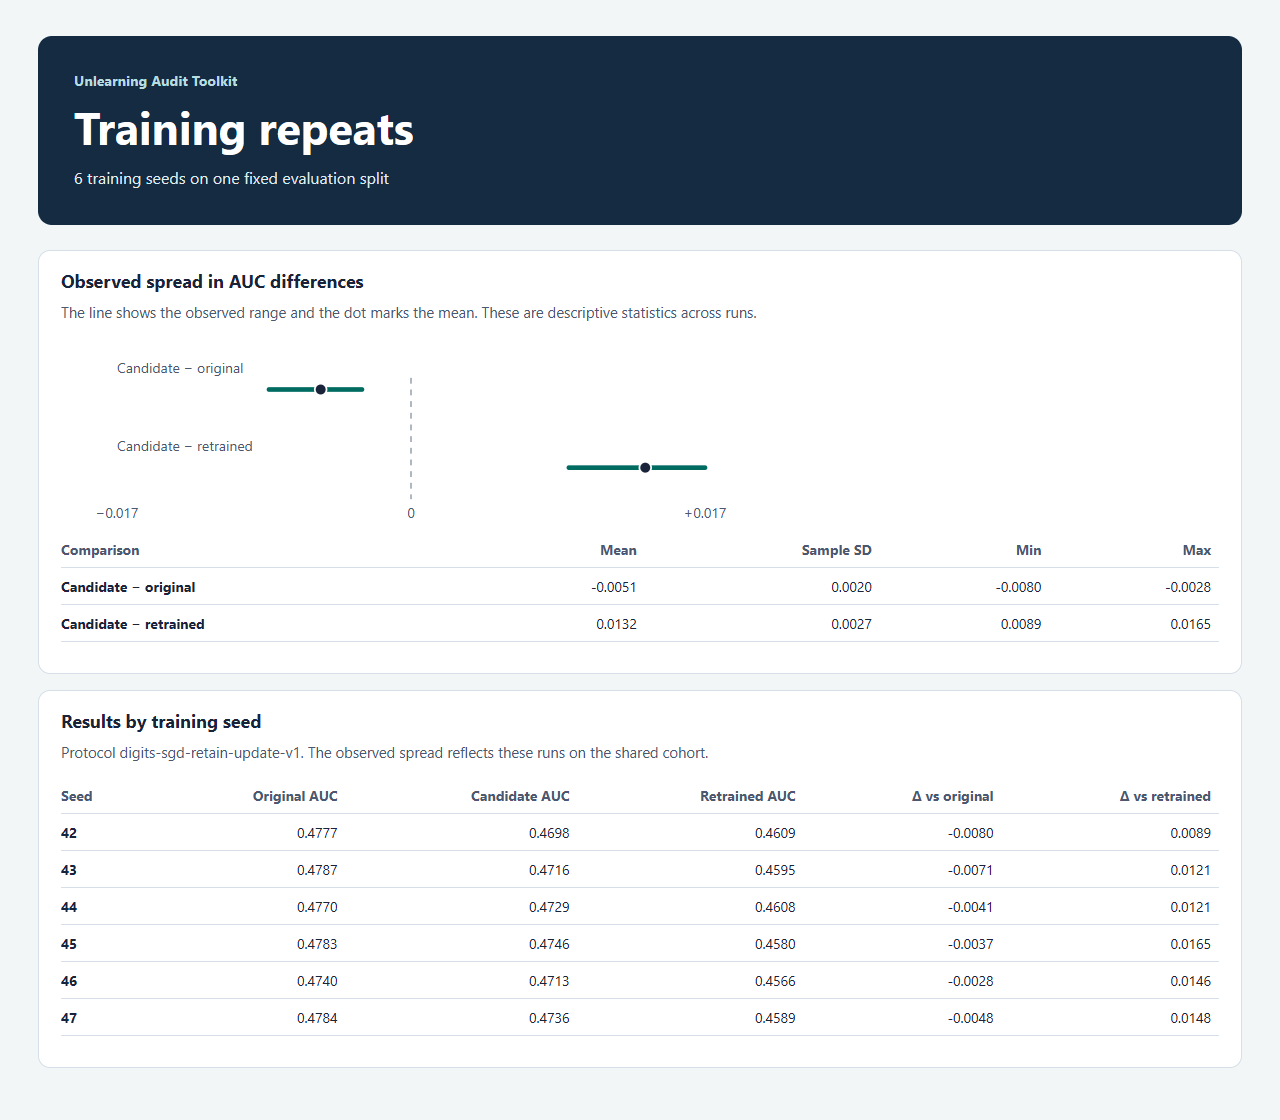
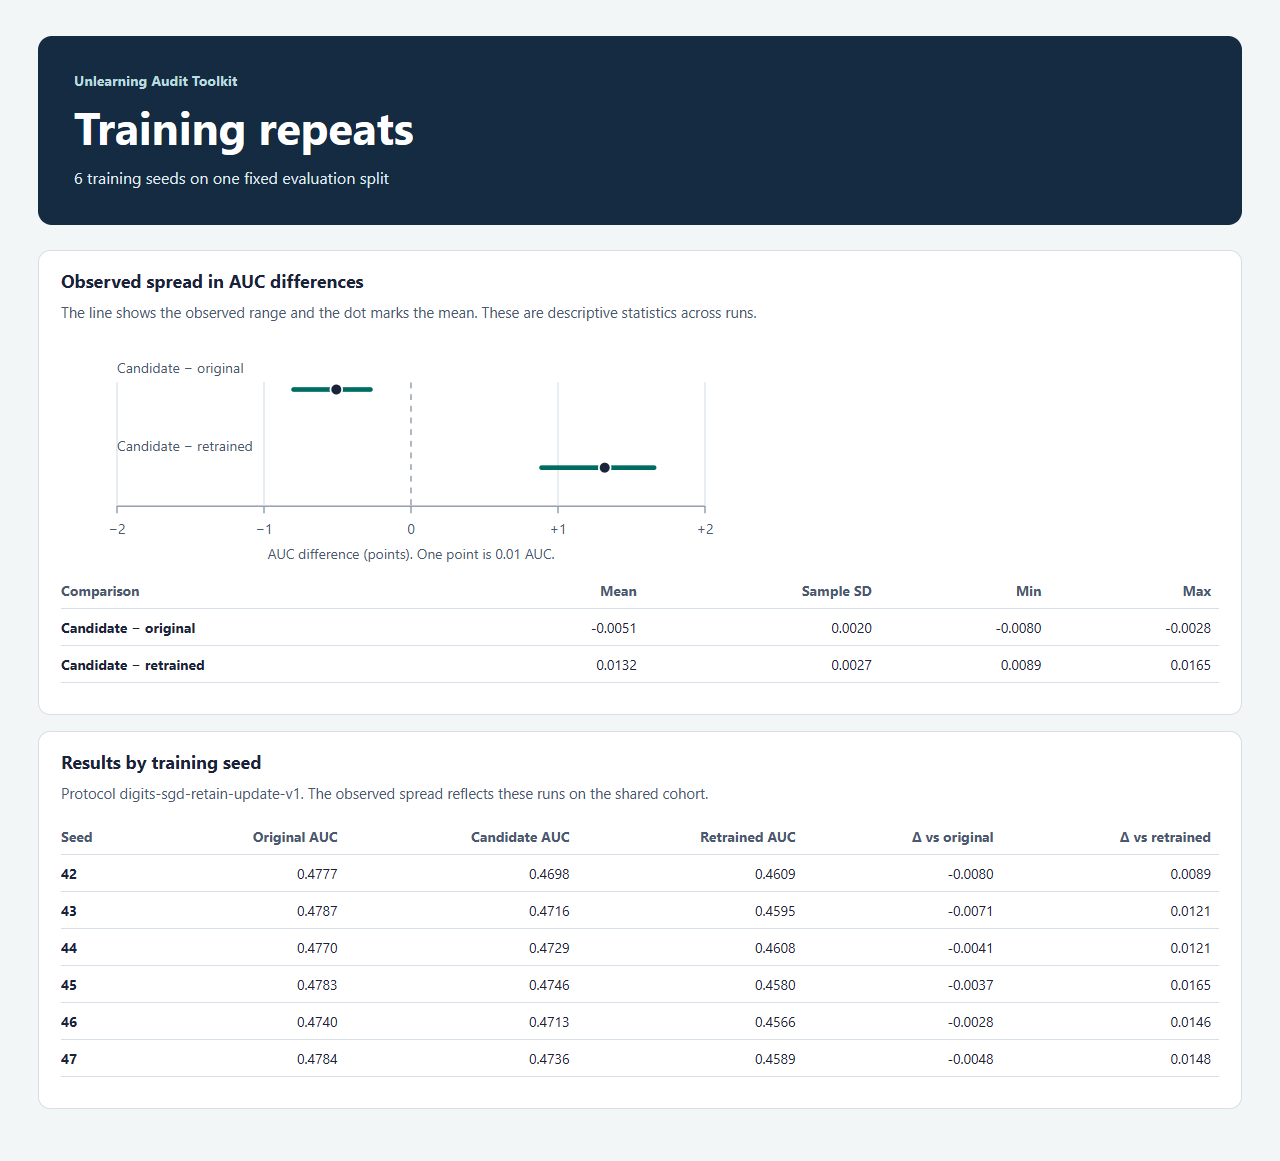
Label the study axis and document the extended seed run

diff --git a/unlearning_audit/report.css b/unlearning_audit/report.css
@@ -59,6 +59,8 @@ dl { display: grid; grid-template-columns: minmax(90px, 150px) minmax(0, 1fr); g
 dt { font-weight: 650; overflow-wrap: anywhere; }
 dd { margin: 0; line-height: 1.5; overflow-wrap: anywhere; }
 .study-chart { max-width: 700px; }
+.study-chart figcaption { color: var(--muted); font-size: .87rem; text-align: center; margin-bottom: 10px; }
+.study-axis { fill: none; stroke: #778497; }
 .study-range { stroke: var(--candidate); stroke-width: 4; stroke-linecap: round; }
 .study-mean { fill: var(--text); stroke: white; stroke-width: 1.5; }
 @media (max-width: 820px) { .grid-panels { grid-template-columns: 1fr; } }

diff --git a/unlearning_audit/study.py b/unlearning_audit/study.py
@@ -88,11 +88,26 @@ def study_csv(study: dict) -> str:
 def _range_chart(study: dict) -> str:
     summary = study["auc_delta_summary"]
     extent = max(0.01, max(abs(summary[key][bound]) for key in COMPARISONS for bound in ("min", "max")))
+    # Use round, symmetric ticks in AUC points, with room for both endpoints.
+    step = next(step for step in (0.5, 1, 2, 5, 10, 20, 50) if 2 * step >= extent * 100)
+    extent = 2 * step / 100
     left, right = 48, 552
     center = (left + right) / 2
+    axis_y = 145
 
     def x(value: float) -> float:
         return center + value / extent * (right - center)
+
+    ticks = []
+    for value in (-2 * step, -step, 0, step, 2 * step):
+        position = x(value / 100)
+        label = f"{value:+g}".replace("-", "−") if value else "0"
+        line_class = "chance" if value == 0 else "grid"
+        ticks.append(
+            f'<path class="{line_class}" d="M{position:.2f} 39V{axis_y}"/>'
+            f'<path class="study-axis" d="M{position:.2f} {axis_y}v6"/>'
+            f'<text x="{position:.2f}" y="169" text-anchor="middle">{label}</text>'
+        )
 
     rows = []
     for y, key in zip((45, 112), COMPARISONS):
@@ -103,15 +118,15 @@ def _range_chart(study: dict) -> str:
             f'<circle class="study-mean" cx="{x(group["mean"]):.2f}" cy="{y}" r="5"/>'
         )
     return (
-        '<svg viewBox="0 0 600 166" role="img" aria-labelledby="spread-title spread-desc">'
+        '<svg viewBox="0 0 600 177" role="img" aria-labelledby="spread-title spread-desc">'
         '<title id="spread-title">Observed ranges of paired AUC differences</title>'
         '<desc id="spread-desc">Horizontal lines span the minimum and maximum across runs. '
-        'Dots mark means. The summary table lists exact values.</desc>'
-        f'<path class="chance" d="M{center:g} 35V139"/>'
+        'Dots mark means. The horizontal axis is measured in AUC points. '
+        'The summary table gives the same values on the original AUC scale.</desc>'
+        f'<path class="study-axis" d="M{left} {axis_y}H{right}"/>'
+        + "".join(ticks)
         + "".join(rows)
-        + f'<text x="{left}" y="155" text-anchor="middle">−{extent:.3f}</text>'
-        + f'<text x="{center:g}" y="155" text-anchor="middle">0</text>'
-        + f'<text x="{right}" y="155" text-anchor="middle">+{extent:.3f}</text></svg>'
+        + '</svg>'
     )
 
 
@@ -133,7 +148,10 @@ def study_html(study: dict) -> str:
   <section class="panel">
     <h2>Observed spread in AUC differences</h2>
     <p>The line shows the observed range and the dot marks the mean. These are descriptive statistics across runs.</p>
-    <div class="study-chart">{_range_chart(study)}</div>
+    <figure class="study-chart">
+      {_range_chart(study)}
+      <figcaption>AUC difference (points). One point is 0.01 AUC.</figcaption>
+    </figure>
     <p class="table-hint">Scroll the tables sideways for more columns.</p>
     <div class="table-wrap" tabindex="0" role="region" aria-label="AUC difference summary">
       <table><thead><tr><th scope="col">Comparison</th><th scope="col">Mean</th><th scope="col">Sample SD</th><th scope="col">Min</th><th scope="col">Max</th></tr></thead>

diff --git a/tests/test_study.py b/tests/test_study.py
@@ -35,6 +35,13 @@ class StudyTests(unittest.TestCase):
         with self.assertRaisesRegex(ValueError, "duplicate training seed"):
             summarize_study([self.run_metrics(2), self.run_metrics(2)])
 
+    def test_chart_shows_a_signed_scale_with_units(self):
+        study = summarize_study([self.run_metrics(2), self.run_metrics(5)])
+        report = study_html(study)
+        self.assertIn("AUC difference (points). One point is 0.01 AUC.", report)
+        for tick in ("−100", "−50", "0", "+50", "+100"):
+            self.assertIn(f'text-anchor="middle">{tick}</text>', report)
+
     def test_rejects_mixed_protocols_and_splits(self):
         first = self.run_metrics(2)
         with self.assertRaisesRegex(ValueError, "protocol metadata"):

diff --git a/docs/methodology.md b/docs/methodology.md
@@ -50,6 +50,23 @@ The study reports individual run estimates, mean, sample standard deviation and 
 
 In the six-seed digits example, the observed candidate-minus-original AUC range is −0.0080 to −0.0028. The candidate-minus-retrained range is +0.0089 to +0.0165. These are small changes in a comparison where the original model's AUC is already close to chance-level ranking. [Example study report](digits-study.png)
 
+A longer run used the same evaluation split and training seeds 42 through 89. The first six seeds are included in the 48-run set.
+
+| Candidate AUC minus | Six seeds, observed range | 48 seeds, observed range | 48 seeds, mean |
+| --- | ---: | ---: | ---: |
+| Original | −0.0080 to −0.0028 | −0.0117 to −0.0009 | −0.0063 |
+| Retrained | +0.0089 to +0.0165 | +0.0073 to +0.0165 | +0.0122 |
+
+Both differences kept their sign across the 48 runs, while the observed range widened. This measures sensitivity to training seeds on one split. To reproduce the extended run from a POSIX shell after installing the demo dependencies:
+
+```sh
+mkdir seed-study
+for seed in $(seq 42 89); do
+    python examples/digits_demo.py "seed-study/seed-$seed" --training-seed "$seed" || exit 1
+done
+unlearning-audit study seed-study/seed-*/metrics.json --format html --output seed-study/study.html
+```
+
 ## Interpretation
 
 Look at the original model's separation first. When its AUC is already close to 0.5, the chosen loss score may have little power to show a change after unlearning. Results describe one score, one comparison protocol and the supplied model fits. They do not establish deletion, formal equivalence to retraining or legal compliance. Dependencies between observations can make sample-level intervals optimistic.
